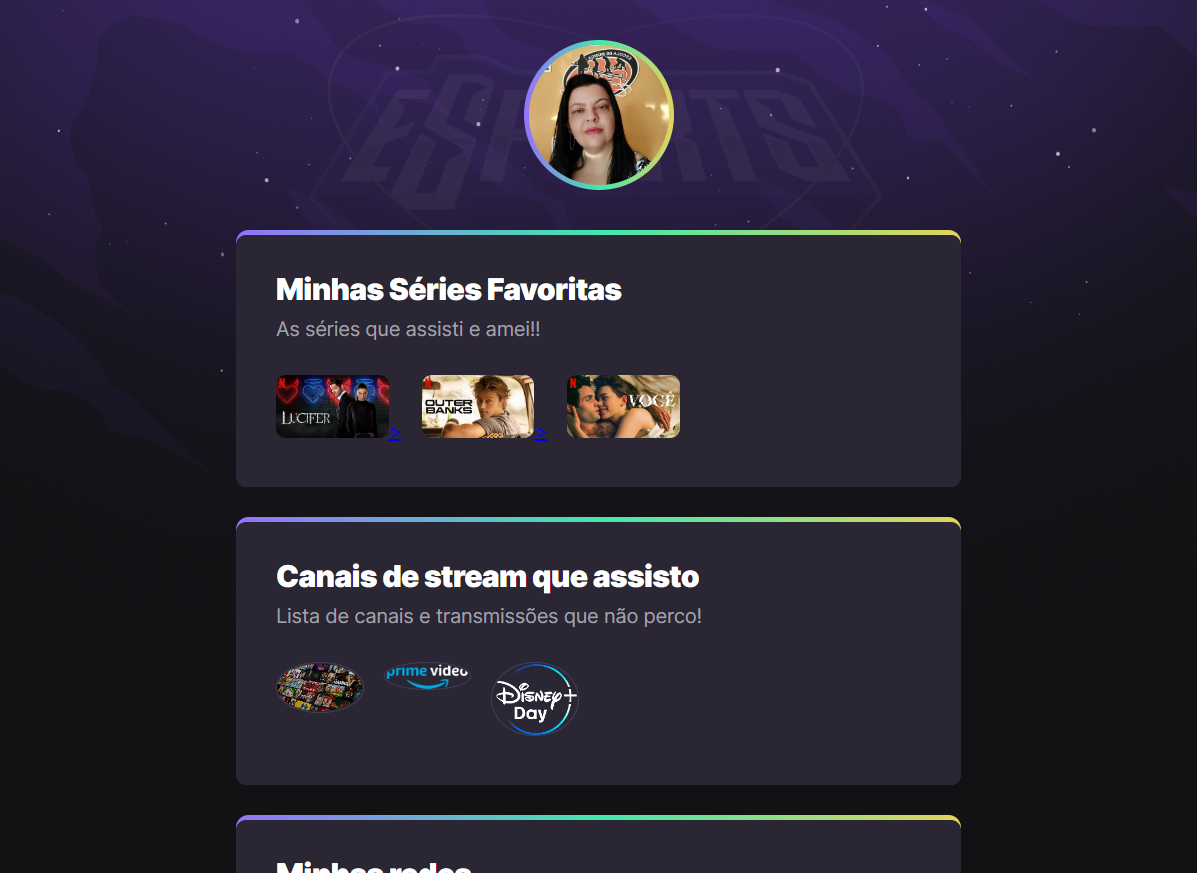
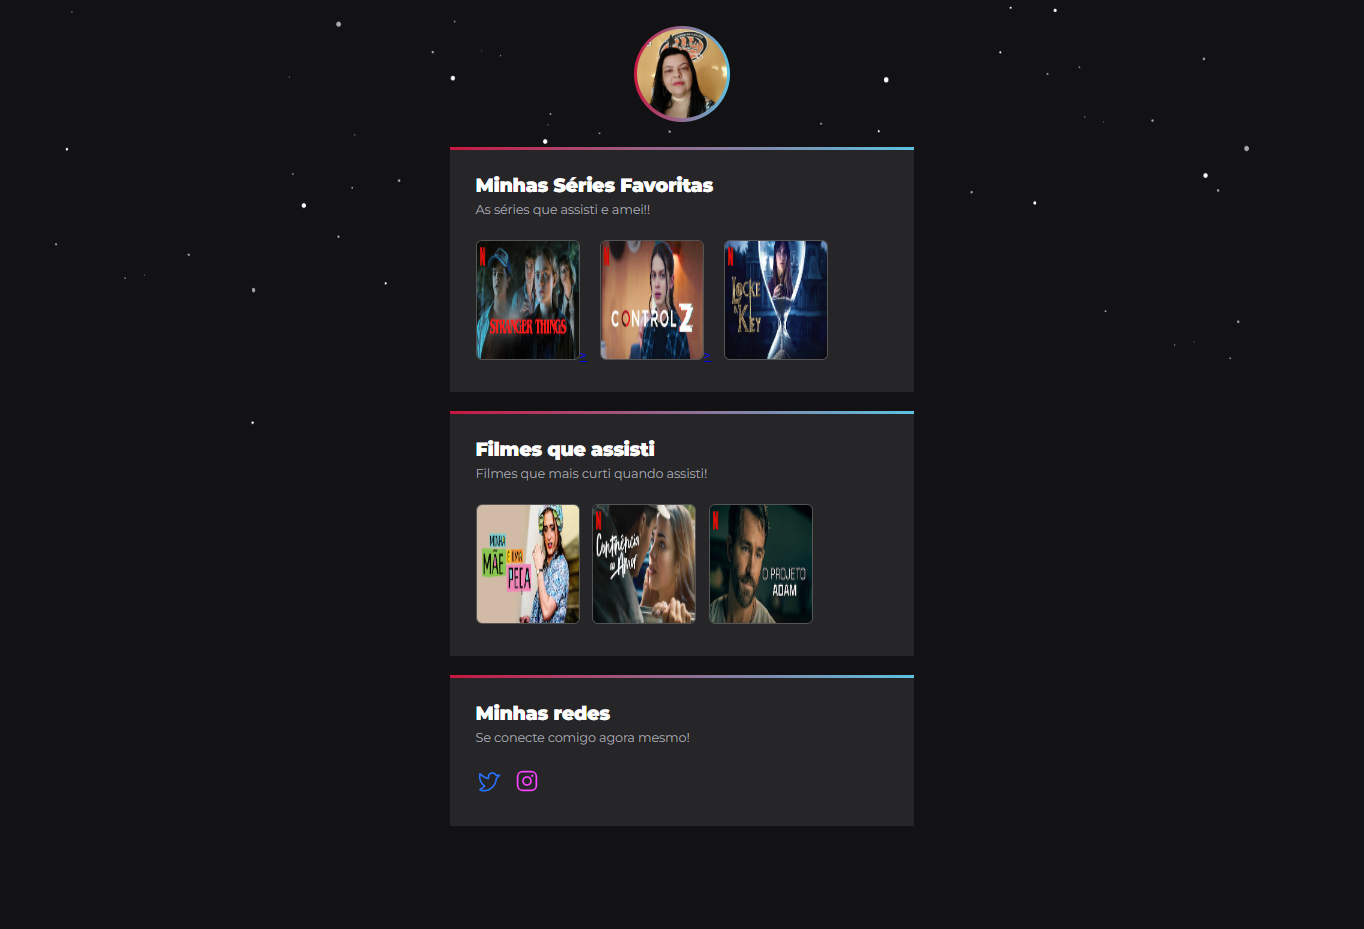
Personalização

diff --git a/README.MD b/README.MD
@@ -4,9 +4,9 @@
 
 > Trilha Explorer
 
-Projeto construído no evento do NLW eSports da RocketSeat.
+Projeto personalizado a partir de projeto construído no evento do NLW eSports da RocketSeat.
 
-[🔗 Clique aqui para acessar](https://FlaMi74.github.io/NLW-eSports)
+[🔗 Clique aqui para acessar](https://FlaMi74.github.io/NLW-Series-Filmes)
 
 ## 🛠 Tecnologias 
 
